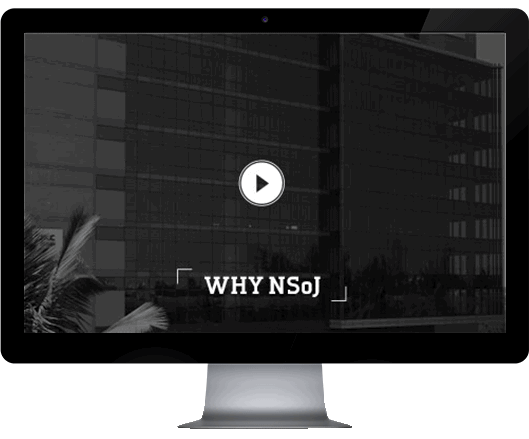
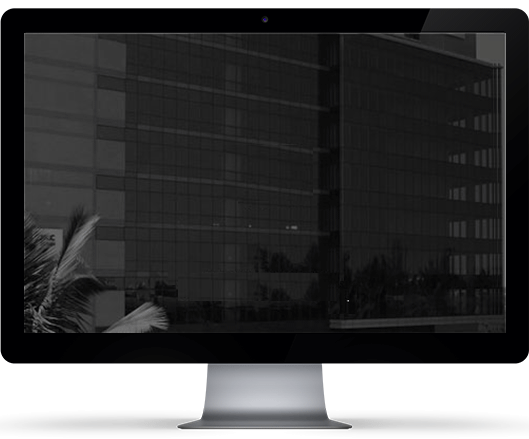
slider images added, fixed the mobile view for the slider

diff --git a/app/assets/stylesheets/style-responsive.css b/app/assets/stylesheets/style-responsive.css
@@ -858,13 +858,10 @@ Primary use:    MultiPurpose Template
    Phone and tablet
    ============================== */
 @media only screen and (max-width:767px){
-    .home-page-primary-slider{
-        display: none;
-    }
+    
     .home-page-secondary-slider{
-        overflow-y:inherit;
-        height:auto !important;
-        
+        display: none;
+ 
     }
     
   
